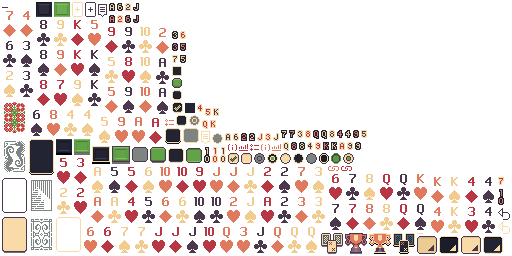
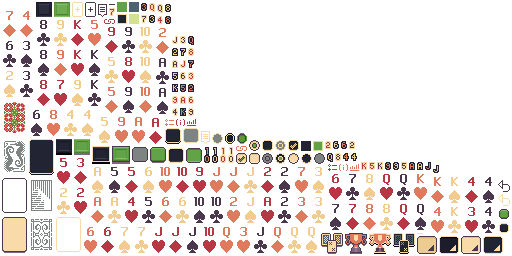
Single atlas

diff --git a/core/src/main/kotlin/ogz/tripeaks/screens/stage/OptionsDialog.kt b/core/src/main/kotlin/ogz/tripeaks/screens/stage/OptionsDialog.kt
@@ -35,7 +35,7 @@ class OptionsDialog(
 
     init {
         val bundle = assets[BundleAssets.Bundle]
-        val cardAssets = assets[TextureAtlasAssets.Cards]
+        val atlas = assets[TextureAtlasAssets.Images]
 
         val showAllSwitch = CheckBox(
             bundle["showAll"],
@@ -111,15 +111,15 @@ class OptionsDialog(
 
         row()
 
-        val cardRegion = if (skin.isDark) "dark_card" else "light_card"
+        val cardRegion = "${skin.resourcePrefix}_card"
 
         val decorSelectList = (0..3).map { index ->
             CheckBox(null, skin, UiSkin.RADIO_BUTTON_STYLE).apply {
                 isChecked = index == settingsData.backDesign
                 add(
                     Stack(
-                        Image(cardAssets.findRegion(cardRegion)),
-                        Image(cardAssets.findRegion("card_back", index))
+                        Image(atlas.findRegion(cardRegion)),
+                        Image(atlas.findRegion("card_back", index))
                     )
                 )
                 imageCell.align(Align.topLeft).padRight(2f)

diff --git a/core/src/main/kotlin/ogz/tripeaks/graphics/sprites.kt b/core/src/main/kotlin/ogz/tripeaks/graphics/sprites.kt
@@ -28,7 +28,7 @@ class SpriteSet(val isDark: Boolean, backIndex: Int, assets: AssetManager) {
 
     init {
         val prefix = if (isDark) "dark" else "light"
-        val cards = assets[TextureAtlasAssets.Cards]
+        val cards = assets[TextureAtlasAssets.Images]
         back = cards.findRegion("card_back", backIndex)
         background = if (isDark) Constants.DARK_BG else Constants.LIGHT_BG
         buttonDisabled = cards.createPatch("${prefix}_button_disabled")
@@ -49,7 +49,7 @@ class SpriteSet(val isDark: Boolean, backIndex: Int, assets: AssetManager) {
 class IndexedSprite(name: String, assets: AssetManager) {
 
     private val sprites = (0 until 52).map { index ->
-        assets[TextureAtlasAssets.Cards].findRegion(name, index)
+        assets[TextureAtlasAssets.Images].findRegion(name, index)
     }
 
     operator fun get(index: Int): TextureRegion = sprites[index]

diff --git a/core/src/main/kotlin/ogz/tripeaks/assets/UiSkin.kt b/core/src/main/kotlin/ogz/tripeaks/assets/UiSkin.kt
@@ -46,7 +46,7 @@ class UiSkin private constructor(
     val line = NinePatchDrawable(NinePatch(atlas.createPatch("${resourcePrefix}_line")))
 
     constructor(assets: AssetManager, cjk: Boolean, dark: Boolean) : this(
-        assets[TextureAtlasAssets.Ui],
+        assets[TextureAtlasAssets.Images],
         if (cjk) assets[FontAssets.UnifontCJK] else assets[FontAssets.GamePixels],
         assets[FontAssets.GamePixels],
         if (dark) Constants.DARK_UI_TEXT else Constants.LIGHT_UI_TEXT,

diff --git a/core/src/main/kotlin/ogz/tripeaks/assets/Assets.kt b/core/src/main/kotlin/ogz/tripeaks/assets/Assets.kt
@@ -17,8 +17,7 @@ fun AssetManager.load(asset: TextureAssets) = load<Texture>(asset.path)
 operator fun AssetManager.get(asset: TextureAssets) = getAsset<Texture>(asset.path)
 
 enum class TextureAtlasAssets(val path: String) {
-    Cards("images/cards2.atlas"),
-    Ui("ui/ui2.atlas")
+    Images("images/images.atlas")
 }
 
 fun AssetManager.load(asset: TextureAtlasAssets) = load<TextureAtlas>(asset.path)
